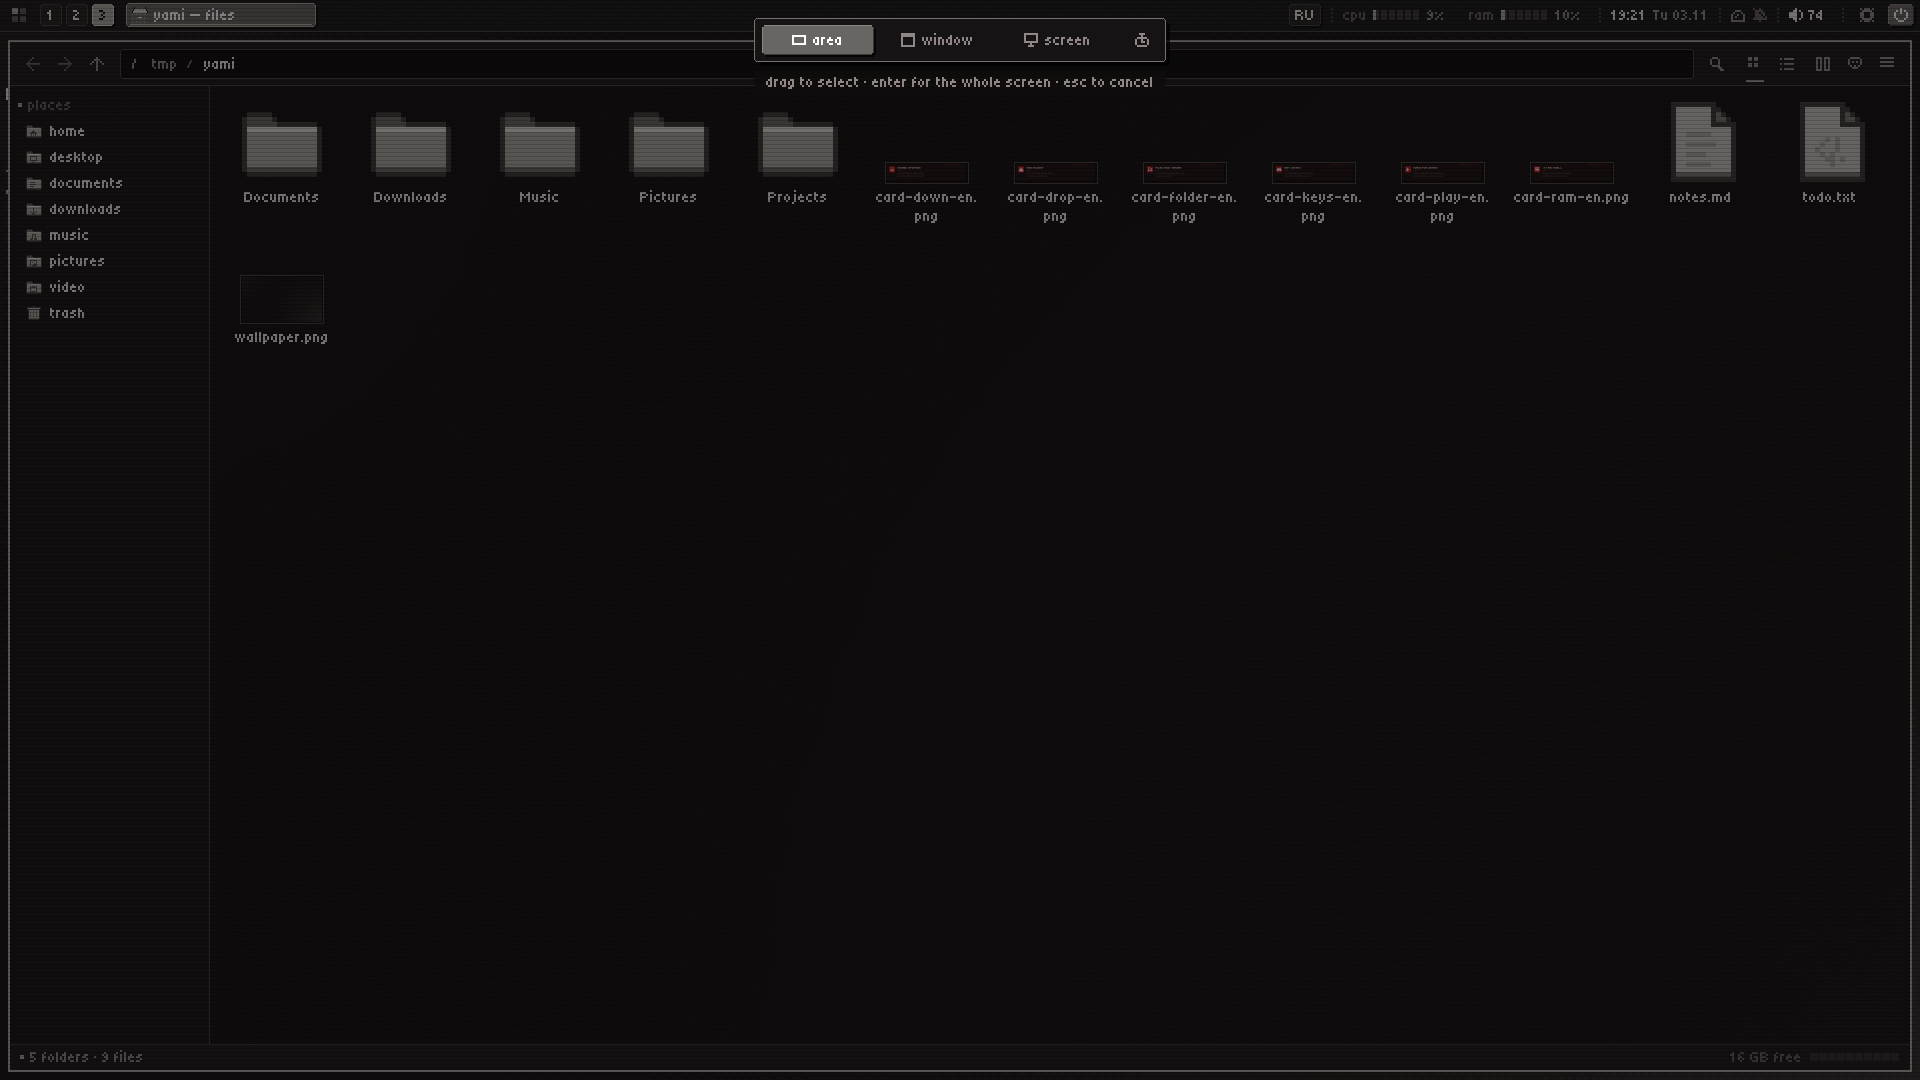
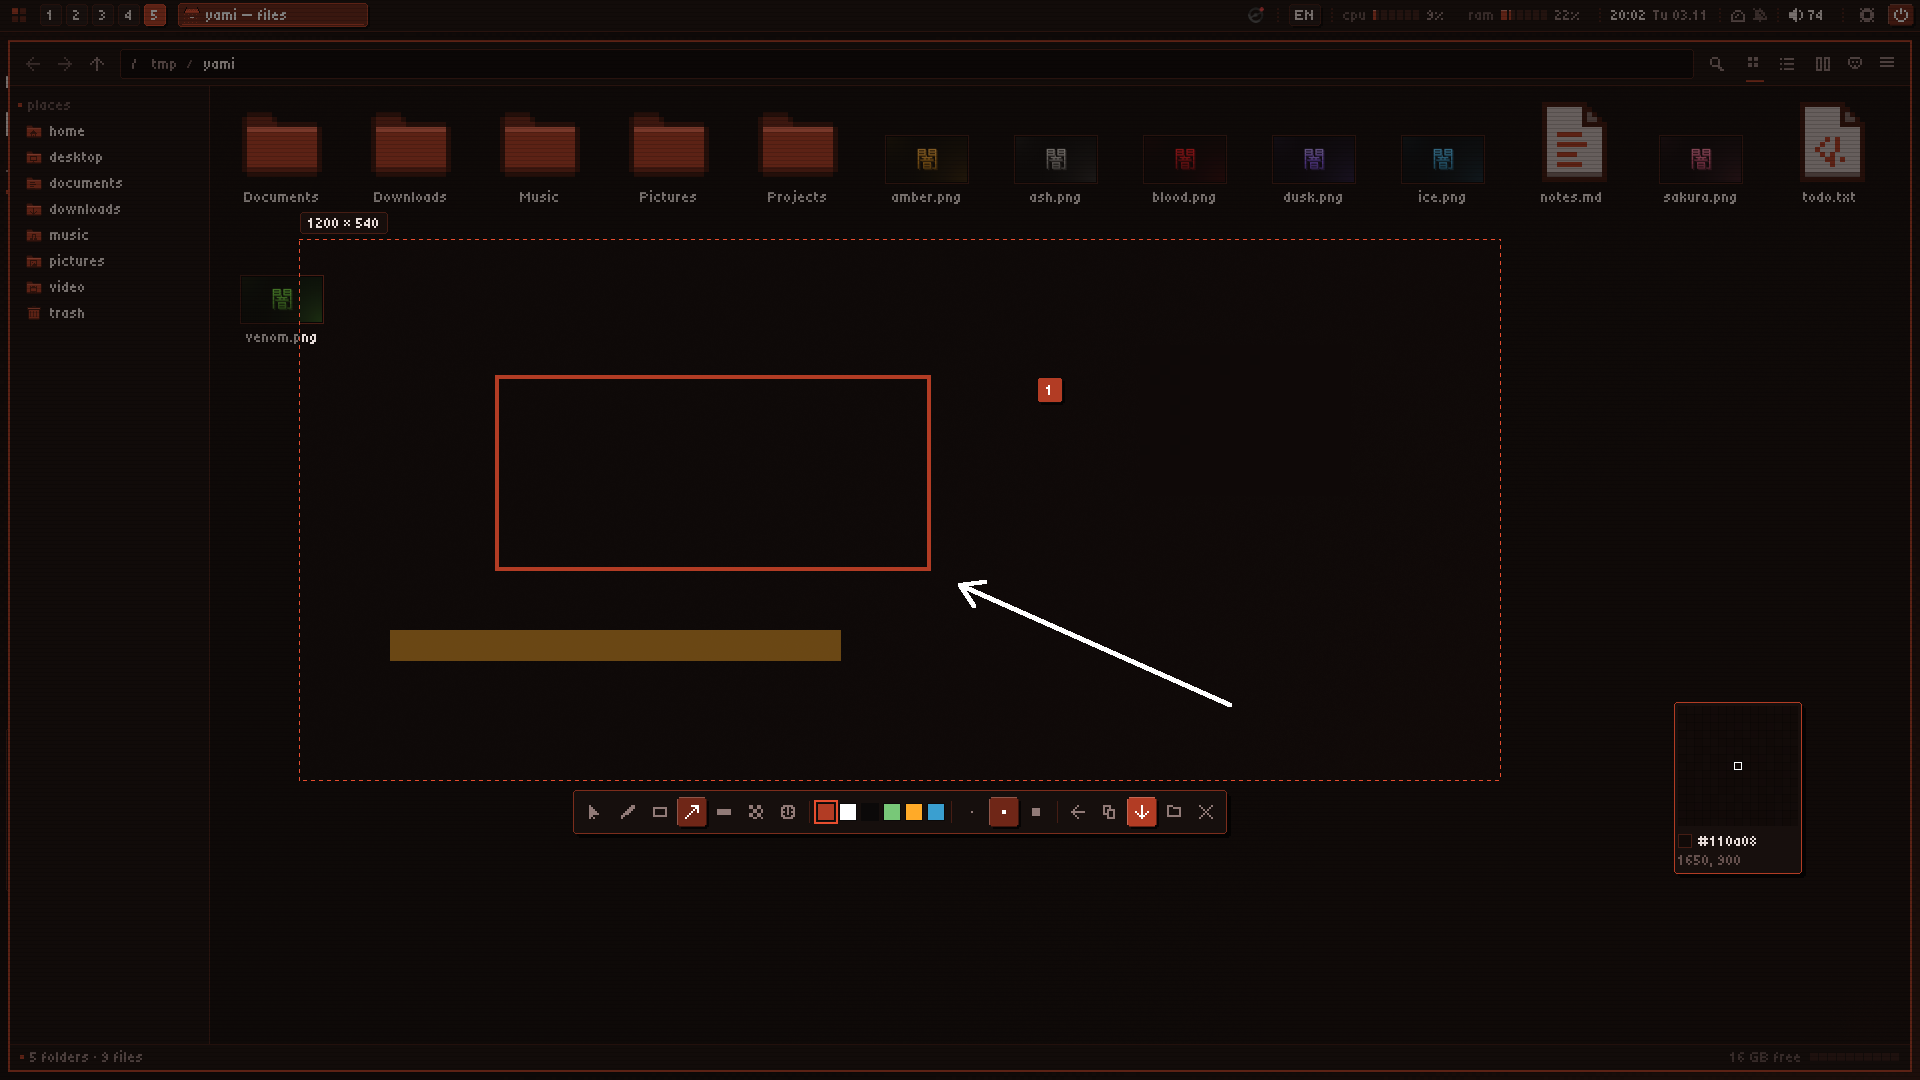
README: new screenshots with 闇 art, one palette across the page
The demo folder now holds 闇 as in fastfetch on each palette's wallpaper,
so thumbnails and the viewer show colour and real pixels instead of near
black files. readme-shots.sh swaps your own wallpaper for the generated
pixel one while shooting and puts it back. The feature panel, logo and
badges follow the screenshots' accent.

diff --git a/README.ru.md b/README.ru.md
@@ -6,11 +6,11 @@
 
 Пиксельный рабочий стол для niri — целыми пикселями.
 
-[![Release](https://img.shields.io/github/v/release/Trendorin/yami?label=release&color=a8a29c)](https://github.com/Trendorin/yami/releases/latest)
-[![License](https://img.shields.io/badge/license-MIT-a8a29c)](LICENSE)
-![Rust](https://img.shields.io/badge/rust-1.89%2B-a8a29c)
-![niri](https://img.shields.io/badge/niri-26.04-a8a29c)
-![Platform](https://img.shields.io/badge/platform-Linux%20%C2%B7%20Wayland-a8a29c)
+[![Release](https://img.shields.io/github/v/release/Trendorin/yami?label=release&color=b23c24)](https://github.com/Trendorin/yami/releases/latest)
+[![License](https://img.shields.io/badge/license-MIT-b23c24)](LICENSE)
+![Rust](https://img.shields.io/badge/rust-1.89%2B-b23c24)
+![niri](https://img.shields.io/badge/niri-26.04-b23c24)
+![Platform](https://img.shields.io/badge/platform-Linux%20%C2%B7%20Wayland-b23c24)
 
 [Установка](#установка) · [Скриншоты](#скриншоты) · [Настройки](docs/CONFIG.md) · [Изменения](CHANGELOG.md) · [English](README.md)
 

diff --git a/README.md b/README.md
@@ -6,11 +6,11 @@
 
 A pixel-art desktop for niri, drawn in whole pixels.
 
-[![Release](https://img.shields.io/github/v/release/Trendorin/yami?label=release&color=a8a29c)](https://github.com/Trendorin/yami/releases/latest)
-[![License](https://img.shields.io/badge/license-MIT-a8a29c)](LICENSE)
-![Rust](https://img.shields.io/badge/rust-1.89%2B-a8a29c)
-![niri](https://img.shields.io/badge/niri-26.04-a8a29c)
-![Platform](https://img.shields.io/badge/platform-Linux%20%C2%B7%20Wayland-a8a29c)
+[![Release](https://img.shields.io/github/v/release/Trendorin/yami?label=release&color=b23c24)](https://github.com/Trendorin/yami/releases/latest)
+[![License](https://img.shields.io/badge/license-MIT-b23c24)](LICENSE)
+![Rust](https://img.shields.io/badge/rust-1.89%2B-b23c24)
+![niri](https://img.shields.io/badge/niri-26.04-b23c24)
+![Platform](https://img.shields.io/badge/platform-Linux%20%C2%B7%20Wayland-b23c24)
 
 [Install](#installation) · [Screenshots](#screenshots) · [Settings](docs/CONFIG.md) · [Changelog](CHANGELOG.md) · [Русский](README.ru.md)
 
